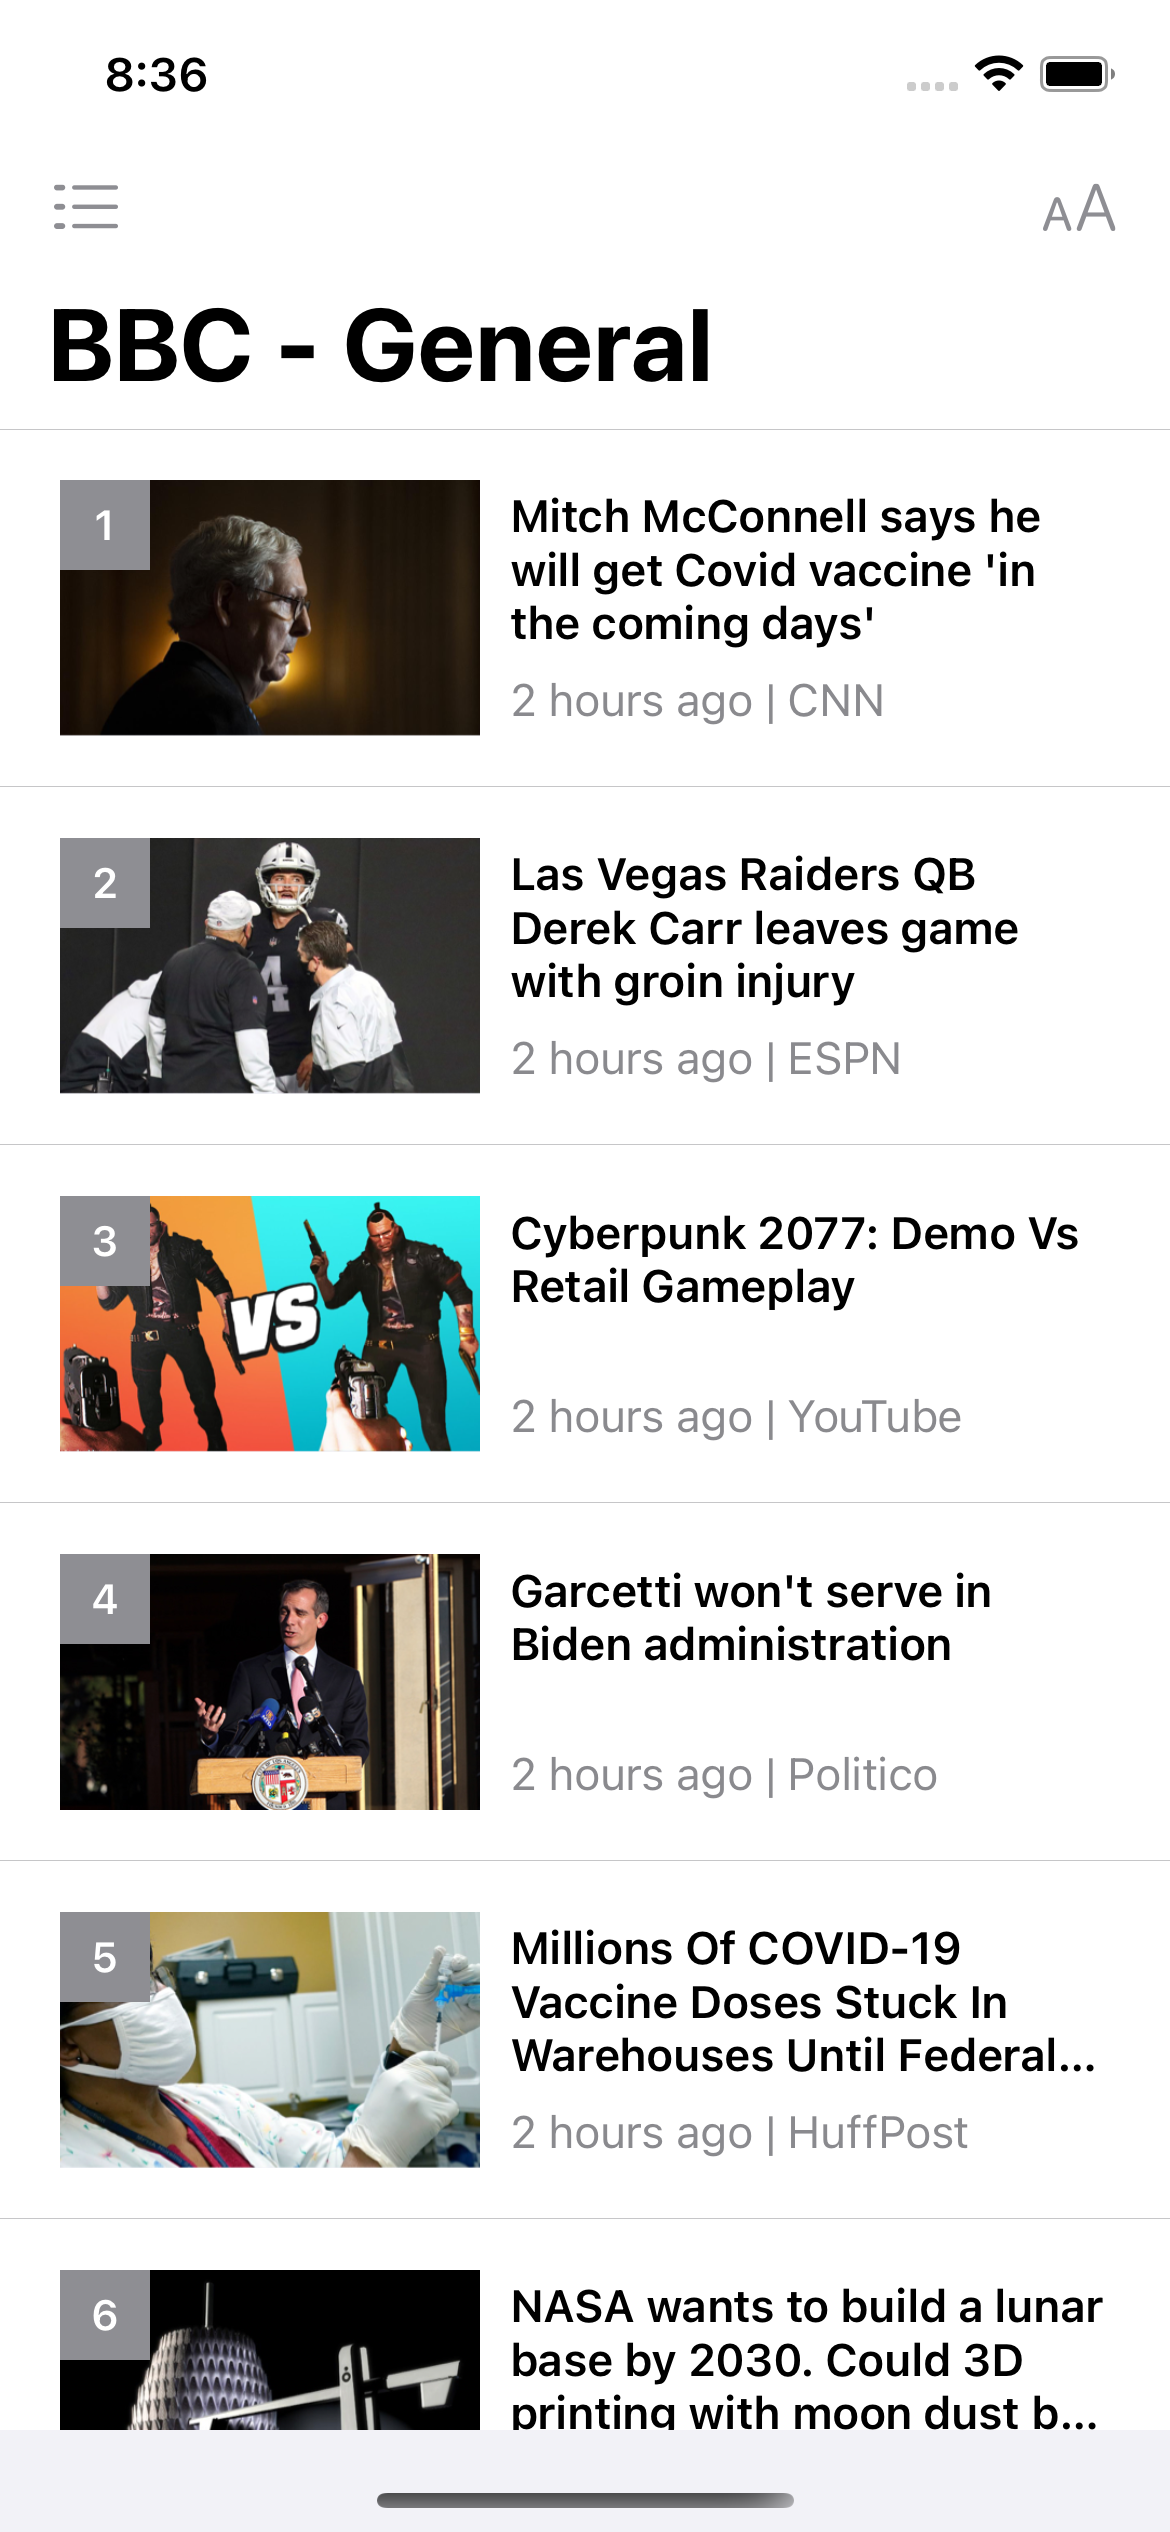
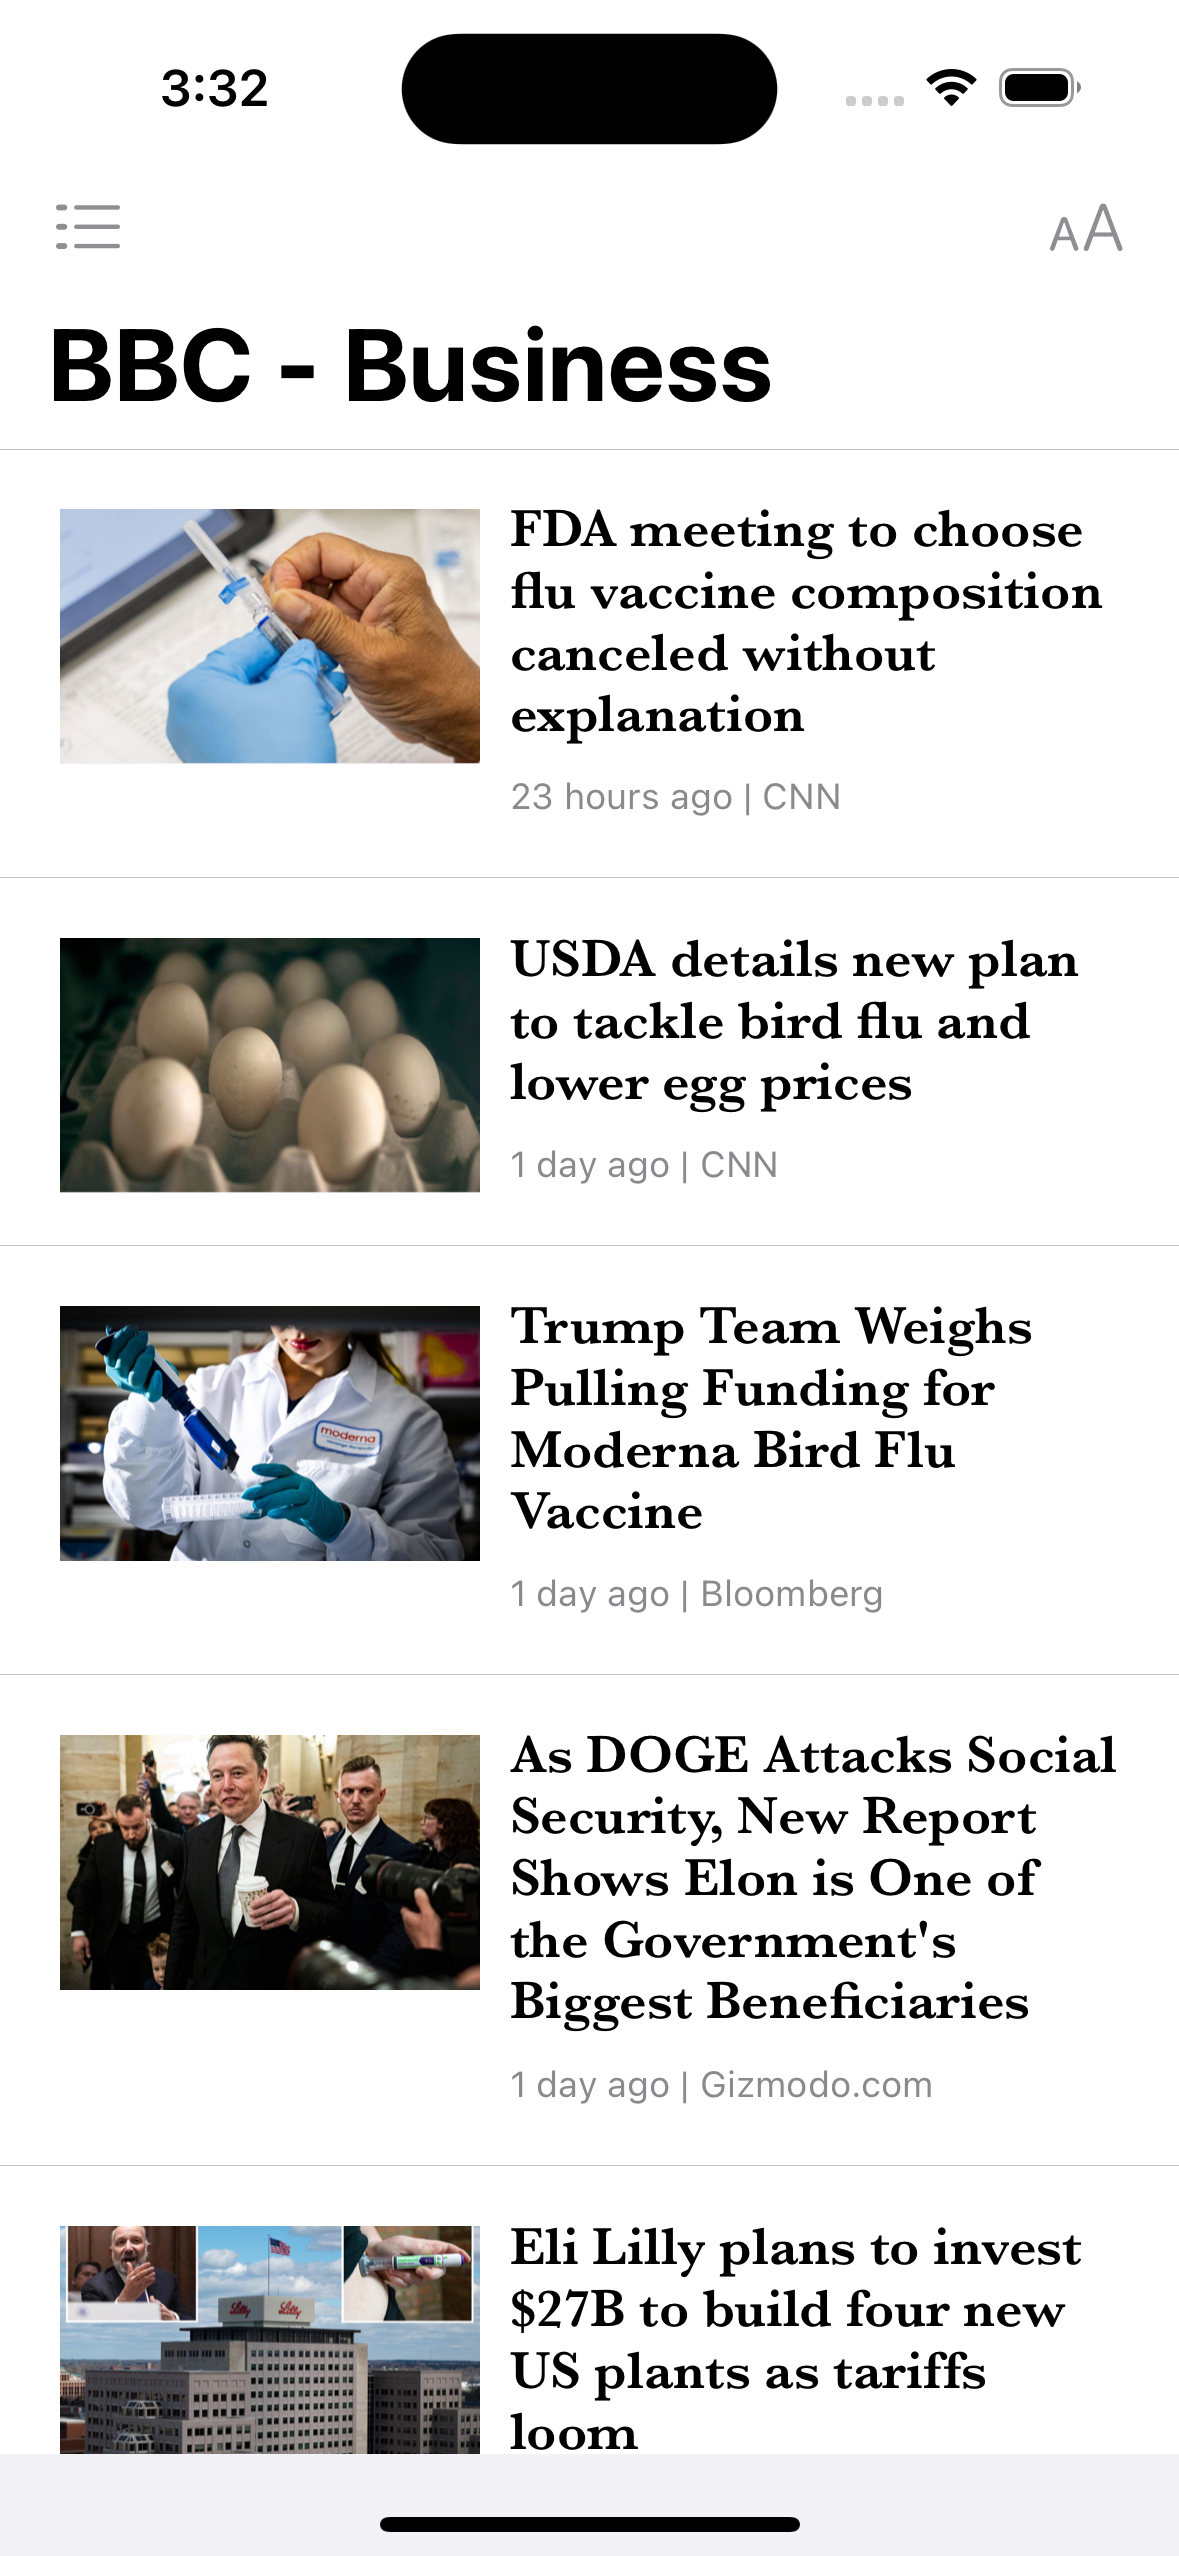
Update BBC

diff --git a/Xcode/TheNews/Views/BBC/BBCCell.swift b/Xcode/TheNews/Views/BBC/BBCCell.swift
@@ -12,29 +12,22 @@ class BBCCell: NewsCell {
     private static let imageHeight: CGFloat = 85
 
     private var main = UIView()
-    private var badge = UILabel()
 
     override func config() {
         super.config()
 
-        title.numberOfLines = 3
-        title.font = .boldSystemFont(ofSize: 15)
-
-        badge.backgroundColor = .systemGray
-        badge.textColor = .white
-        badge.font = .boldSystemFont(ofSize: 14)
-        badge.textAlignment = .center
-
+        title.font = UIFont(name: "Baskerville-SemiBold", size: 18)
+        
         ago.textColor = .secondaryLabel
-        ago.font = .systemFont(ofSize: 15)
+        ago.font = .preferredFont(forTextStyle: .caption1)
 
         main = UIView()
         contentView.addSubviewForAutoLayout(main)
 
         let inset: CGFloat = 10
         NSLayoutConstraint.activate([
-            main.topAnchor.constraint(equalTo: contentView.topAnchor, constant: inset),
-            main.bottomAnchor.constraint(equalTo: contentView.bottomAnchor, constant: -inset),
+            main.topAnchor.constraint(equalTo: contentView.topAnchor, constant: inset * 2),
+            main.bottomAnchor.constraint(equalTo: contentView.bottomAnchor, constant: -inset * 2),
             main.leadingAnchor.constraint(equalTo: contentView.readableContentGuide.leadingAnchor),
             main.trailingAnchor.constraint(equalTo: contentView.readableContentGuide.trailingAnchor)
         ])
@@ -44,28 +37,20 @@ class BBCCell: NewsCell {
         }
 
         NSLayoutConstraint.activate([
-            articleImageView.centerYAnchor.constraint(equalTo: main.centerYAnchor),
+            articleImageView.topAnchor.constraint(equalTo: main.topAnchor),
             articleImageView.leadingAnchor.constraint(equalTo: main.leadingAnchor),
             articleImageView.heightAnchor.constraint(equalToConstant: BBCCell.imageHeight),
             articleImageView.widthAnchor.constraint(equalToConstant: BBCCell.imageWidth),
 
-            title.topAnchor.constraint(equalTo: articleImageView.topAnchor, constant: 3),
+            title.topAnchor.constraint(equalTo: articleImageView.topAnchor, constant: -4),
             title.leadingAnchor.constraint(equalTo: articleImageView.trailingAnchor, constant: inset),
             main.trailingAnchor.constraint(equalTo: title.trailingAnchor),
 
             ago.leadingAnchor.constraint(equalTo: articleImageView.trailingAnchor, constant: inset),
             main.trailingAnchor.constraint(equalTo: ago.trailingAnchor),
-            articleImageView.bottomAnchor.constraint(equalTo: ago.bottomAnchor, constant: 3),
+            ago.topAnchor.constraint(equalTo: title.bottomAnchor, constant: inset),
 
-            main.bottomAnchor.constraint(equalTo: ago.bottomAnchor, constant: inset)
-        ])
-
-        articleImageView.addSubviewForAutoLayout(badge)
-
-        NSLayoutConstraint.activate([
-            badge.topAnchor.constraint(equalTo: articleImageView.topAnchor),
-            badge.widthAnchor.constraint(equalToConstant: 30),
-            badge.heightAnchor.constraint(equalToConstant: 30)
+            main.bottomAnchor.constraint(equalTo: ago.bottomAnchor)
         ])
     }
 
@@ -77,8 +62,6 @@ class BBCCell: NewsCell {
 
         let size = CGSize(width: BBCCell.imageWidth, height: BBCCell.imageHeight)
         load(urlString: article.urlToImage, downloader: downloader, size: size)
-
-        badge.text = String(row + 1)
     }
 
 }
